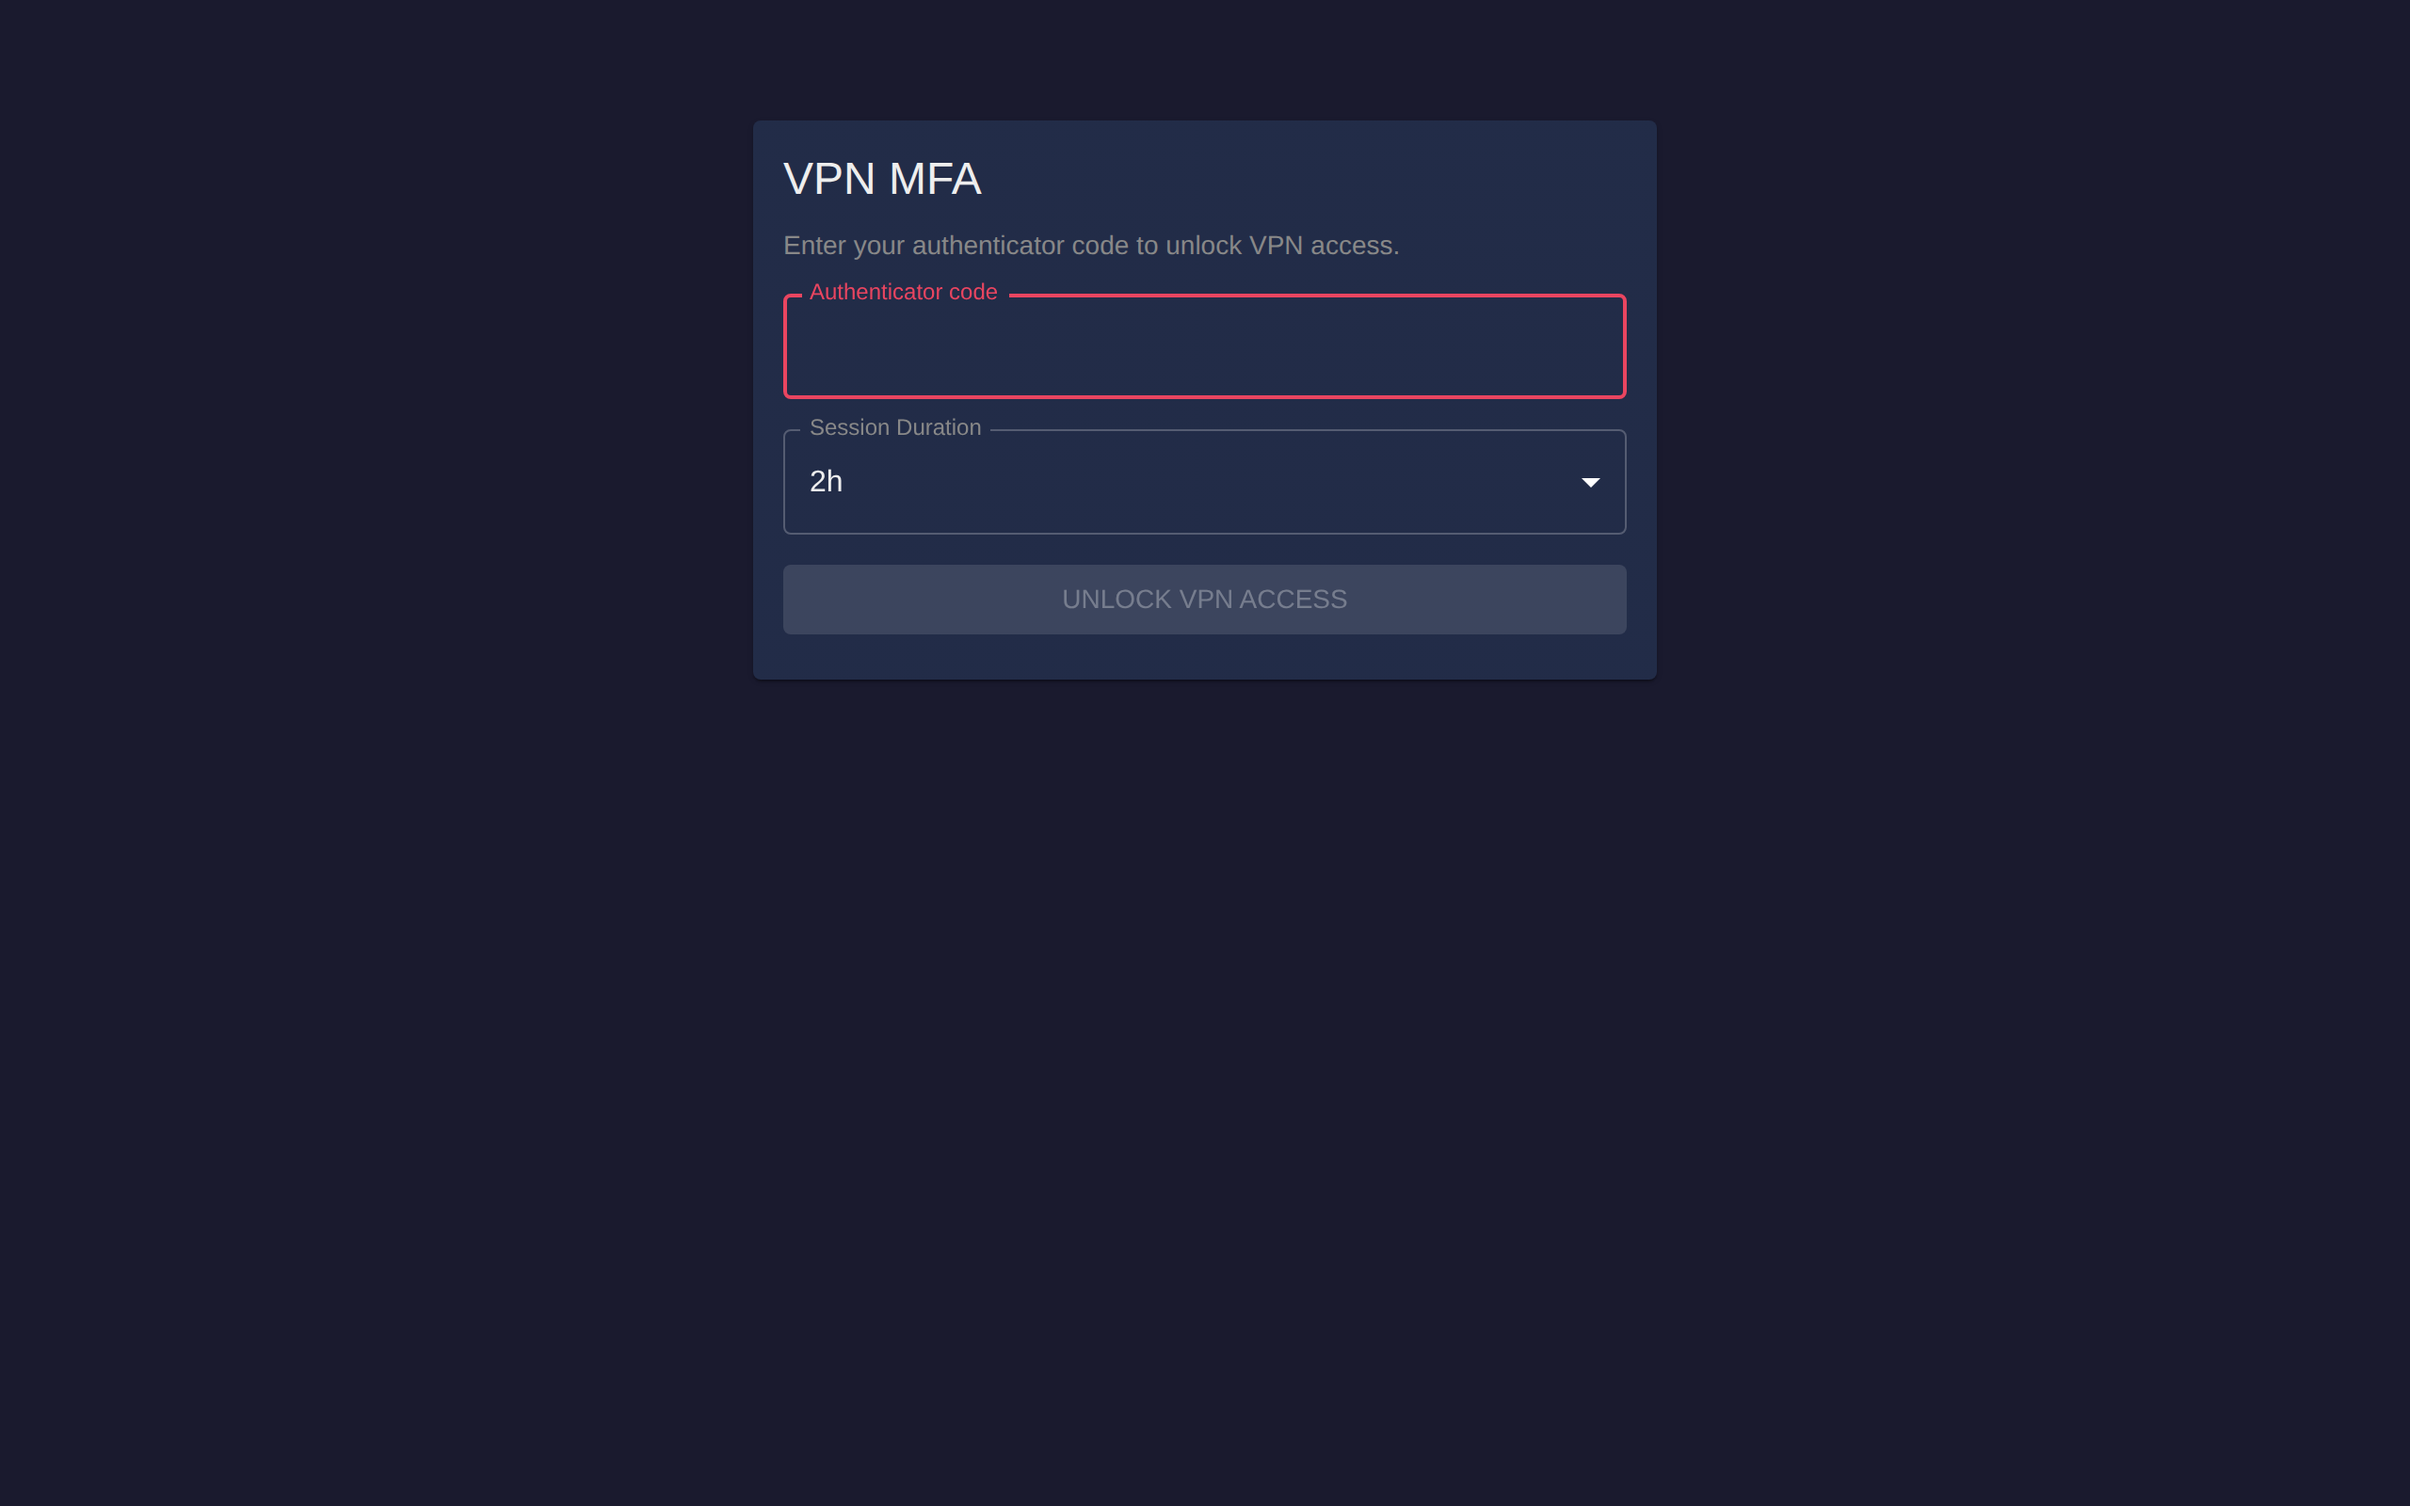
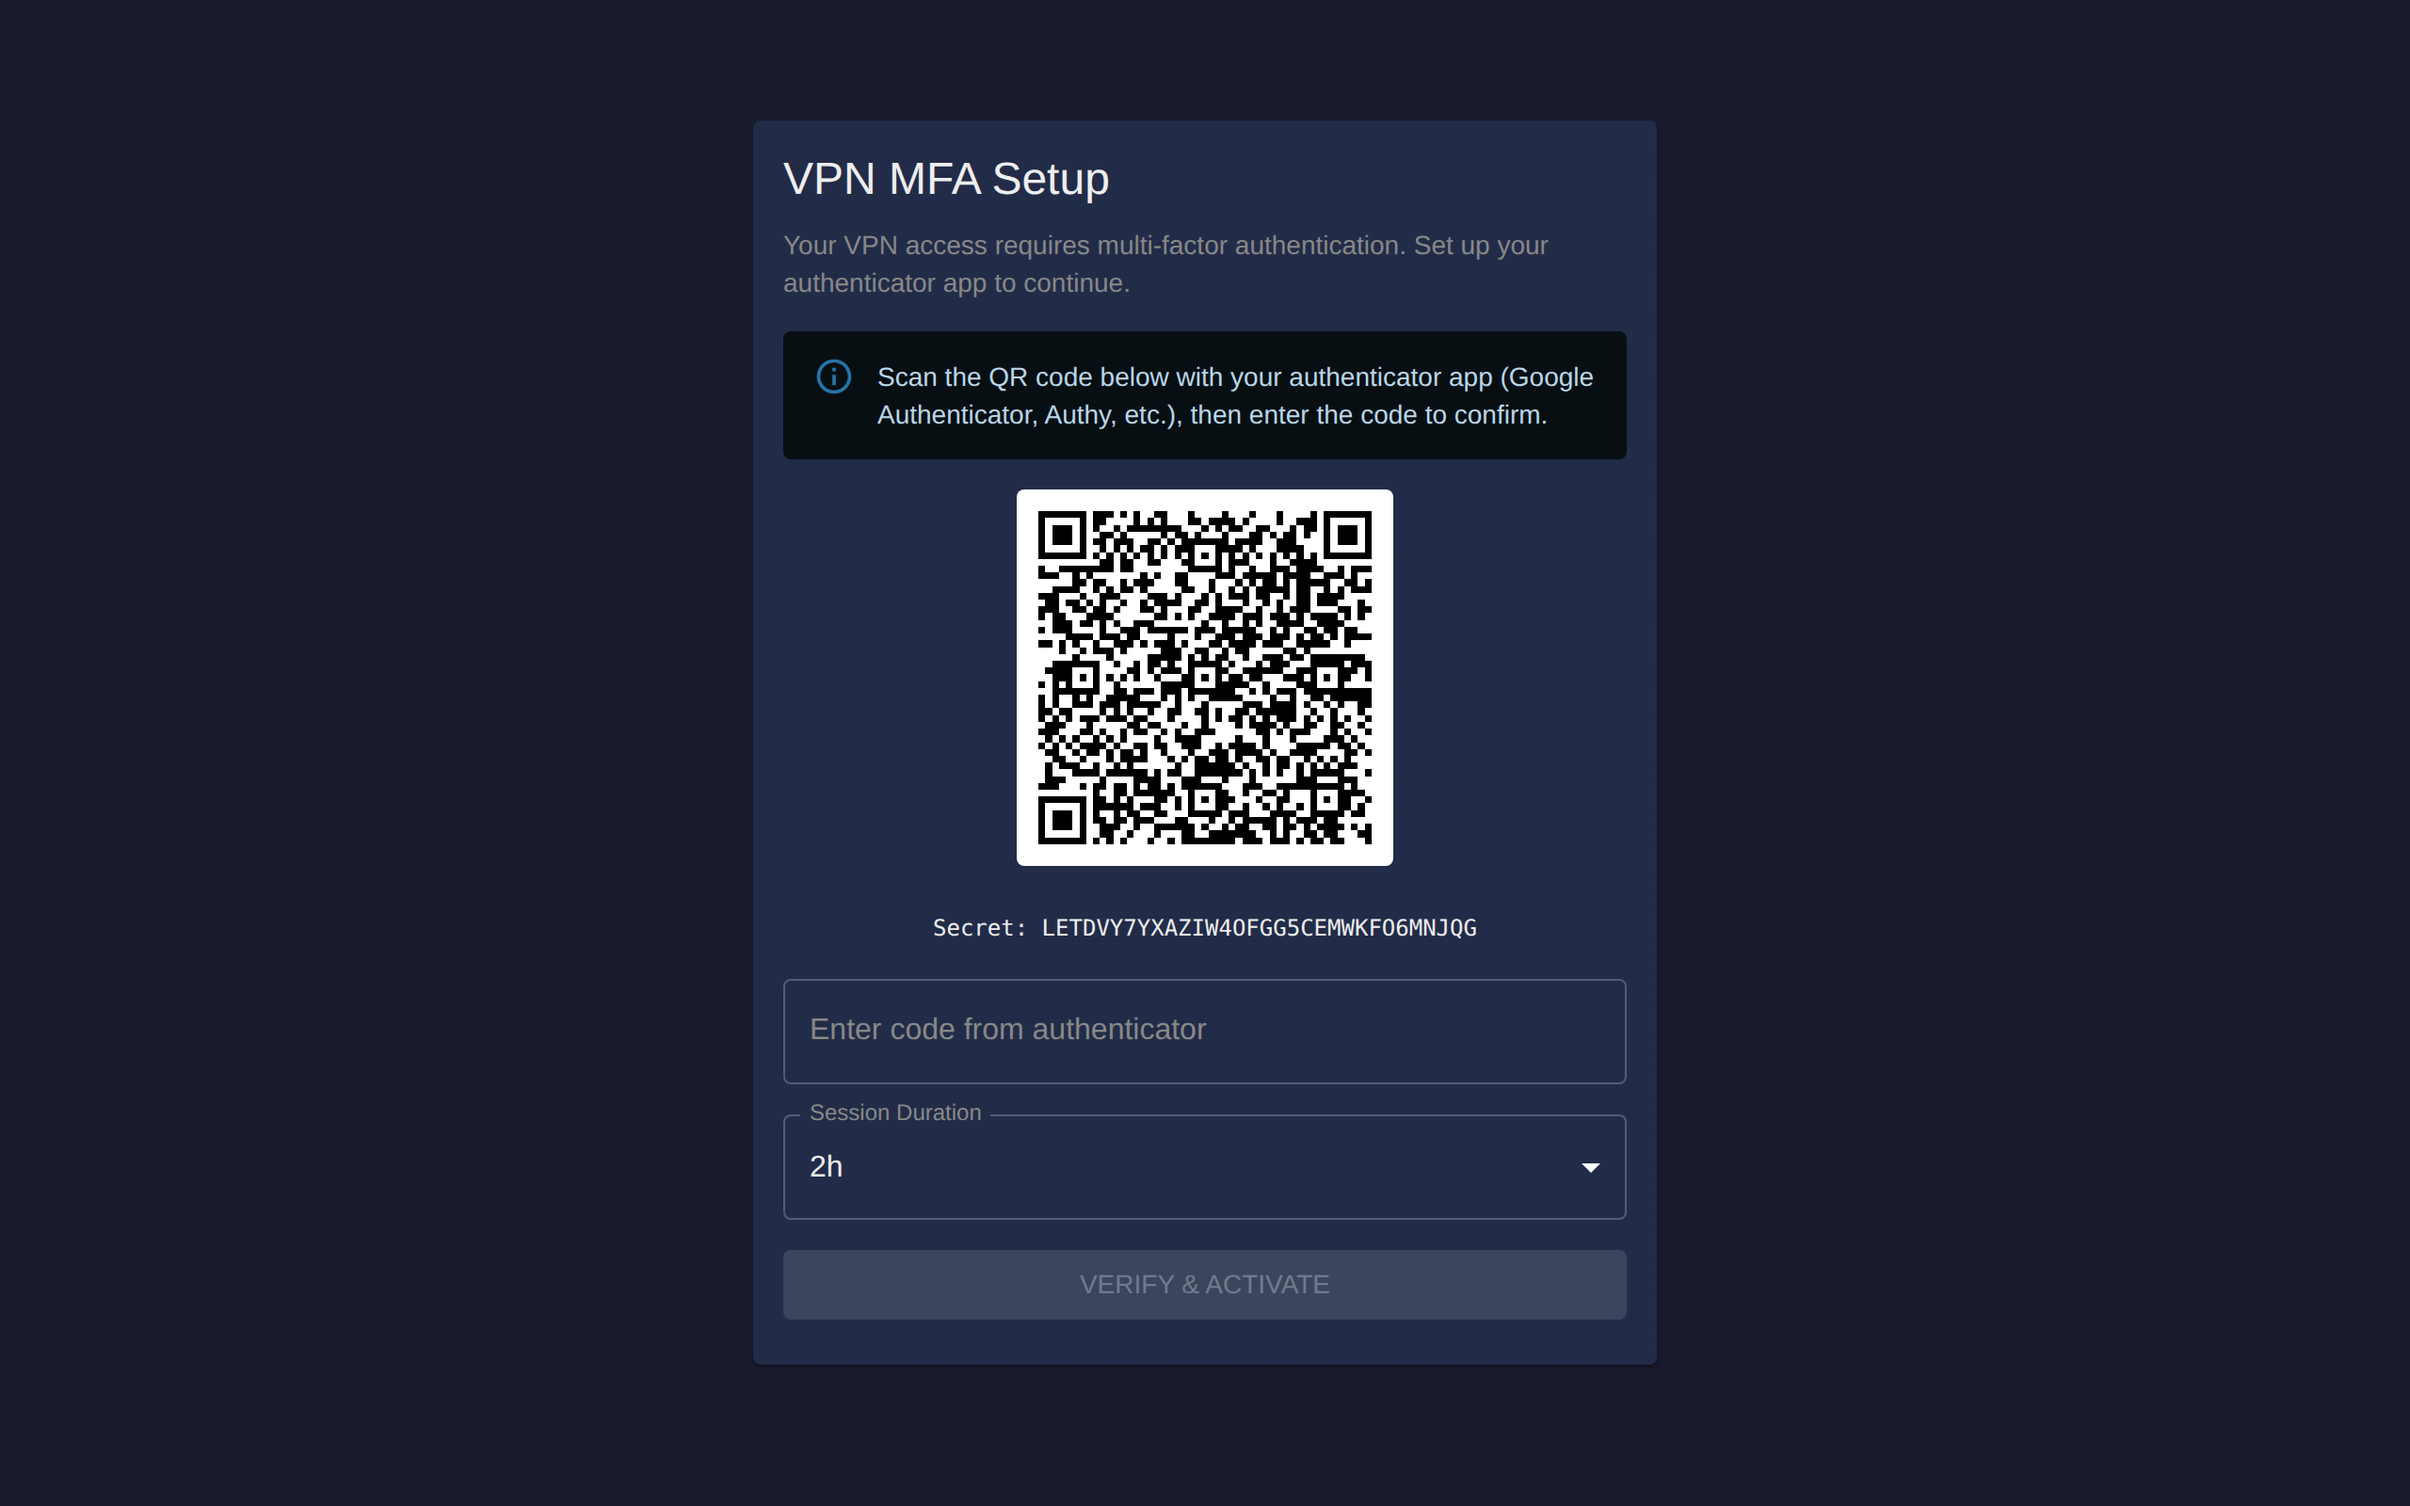
fix(mfa): render the enrollment QR locally and keep it on screen
The QR was an <img> pointed at api.qrserver.com with the provisioning URI in
the query string — which hands the TOTP shared secret to a third party, and
could never load anyway: a jailed peer has no route off the gateway, which is
the entire point of the jail. Enrollment was impossible for exactly the users
the page exists for. Now generated in the browser from the same URI via the
`qrcode` package, bundled with the UI so it works offline.

The QR also disappeared before it could be scanned. hz persists the secret the
moment /enroll is called, so the next poll of /status flipped `enrolled` true
and the component fell through to the bare verify form mid-scan. The secret is
shown exactly once, so anyone caught by that needed an admin reset to recover.
The enrollment view now holds until a code is confirmed.

Screenshots re-captured against the fixed flow. mfa-unlocked.png is not
published: it is the LAN test page, meaningful as fixture proof that the jail
lifted, useless as documentation.

Changed region(s): [[0.3125, 0.1562, 0.6875, 0.9062], [0.4062, 0.0938, 0.4688, 0.125]]

diff --git a/ui/src/routes/mfa.tsx b/ui/src/routes/mfa.tsx
@@ -1,5 +1,6 @@
-import { useState } from "react";
+import { useEffect, useState } from "react";
 import { createFileRoute } from "@tanstack/react-router";
+import QRCode from "qrcode";
 import {
   Alert,
   Box,
@@ -23,6 +24,27 @@ function MFAPage() {
   const [code, setCode] = useState("");
   const [duration, setDuration] = useState("");
   const [error, setError] = useState("");
+
+  // Rendered in the browser from the provisioning URI. This used to be an
+  // <img> pointed at api.qrserver.com, which handed the TOTP shared secret to
+  // a third party in a query string — and could never load anyway, since a
+  // jailed peer has no route off this box. That is the entire point of the
+  // jail.
+  const [qrSvg, setQrSvg] = useState("");
+  const provisioningUri = enroll.data?.provisioningUri;
+  useEffect(() => {
+    if (!provisioningUri) {
+      setQrSvg("");
+      return;
+    }
+    let live = true;
+    QRCode.toString(provisioningUri, { type: "svg", margin: 1, width: 200 })
+      .then((svg) => live && setQrSvg(svg))
+      .catch(() => live && setQrSvg(""));
+    return () => {
+      live = false;
+    };
+  }, [provisioningUri]);
 
   if (status.isLoading) {
     return (
@@ -69,8 +91,16 @@ function MFAPage() {
     );
   }
 
-  // Not enrolled — show enrollment
-  if (!data?.enrolled) {
+  // Not enrolled — show enrollment.
+  //
+  // `enroll.data ||` is load-bearing. hz persists the secret the moment
+  // /enroll is called, so the next poll of /status flips `enrolled` to true
+  // while the user is still mid-scan. Keying only off `enrolled` therefore
+  // swapped the QR out from under them for the bare verify form, stranding
+  // anyone who hadn't finished scanning: the secret is only ever shown once,
+  // and recovering needs an admin reset. Hold this view until a code is
+  // actually confirmed — the session check above is what ends it.
+  if (enroll.data || !data?.enrolled) {
     return (
       <Box sx={{ maxWidth: 480, mx: "auto", mt: 8 }}>
         <Card>
@@ -89,14 +119,23 @@ function MFAPage() {
                   Scan the QR code below with your authenticator app (Google
                   Authenticator, Authy, etc.), then enter the code to confirm.
                 </Alert>
-                <Box sx={{ textAlign: "center", mb: 2 }}>
-                  <img
-                    src={`https://api.qrserver.com/v1/create-qr-code/?size=200x200&data=${encodeURIComponent(enroll.data.provisioningUri)}`}
-                    alt="TOTP QR Code"
-                    width={200}
-                    height={200}
-                  />
-                </Box>
+                <Box
+                  sx={{
+                    textAlign: "center",
+                    mb: 2,
+                    // The generated SVG is monochrome-on-transparent, which
+                    // disappears against a dark card — and a QR needs a quiet
+                    // light margin to scan reliably.
+                    "& svg": {
+                      width: 200,
+                      height: 200,
+                      background: "#fff",
+                      borderRadius: 1,
+                      padding: 1,
+                    },
+                  }}
+                  dangerouslySetInnerHTML={{ __html: qrSvg }}
+                />
                 <Typography
                   variant="caption"
                   sx={{ fontFamily: "monospace", display: "block", mb: 2, textAlign: "center", wordBreak: "break-all" }}
